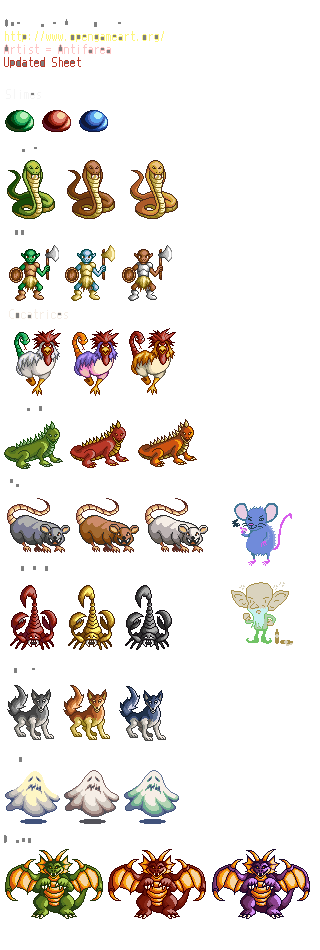
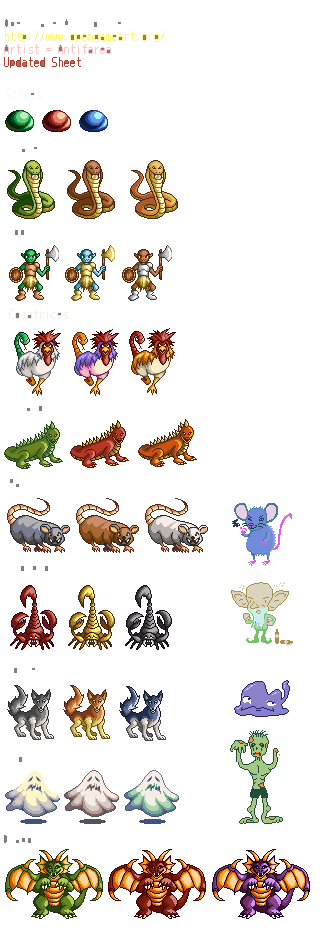
Added zombies... should actually do work :(

Changed region(s): [[0.7188, 0.7021, 0.9062, 0.8853]]

diff --git a/js/src/pawns/pawn-base.js b/js/src/pawns/pawn-base.js
@@ -53,7 +53,7 @@ define(["underscore"], function(_) {
             return Math.floor((this.strength() + this.agility() + this.luck()/2) + 50);
         },
         evade: function() {
-            return Math.floor((3 * this.agility() + this.luck()) / 4);
+            return Math.floor((3 * this.agility() + this.luck()) / 4 + this.buffs["evade"]||0);
         },
         force: function() {
             return Math.floor((2 * this.intelligence() + this.agility()) / 3);

diff --git a/assets/maps/Town.js b/assets/maps/Town.js
@@ -36,6 +36,10 @@ setupMap(function(map, gameState) {
     map.npcs.littlegirl.addBeforeTalk(learnAboutMirv);
     map.npcs.earl.addBeforeTalk(learnAboutMirv);
 
+    map.npcs.earl2.onTalk = function() {
+        $.publish("/battle/start", [["zombie", "zombie"]]);
+    };
+
     map.npcs.barrel1.onTalk = function() {
         // we'll flesh this out over time...
         $.publish("/battle/start", [["slime", "rat", "slime"]]);

diff --git a/js/src/pawns/enemy-pawn.js b/js/src/pawns/enemy-pawn.js
@@ -16,6 +16,7 @@ define(["dice", "pawns/pawn-base", "json!enemies.json", "json!skills.json"], fun
         this.rect = proto.rect;
         this.skills = proto.skills;
         this.image = enemyImage;
+        this.buffs = proto.buffs || {};
 
         hitDice = Dice.parse(proto.hp + "");
         this.rolledHp = hitDice.roll();
